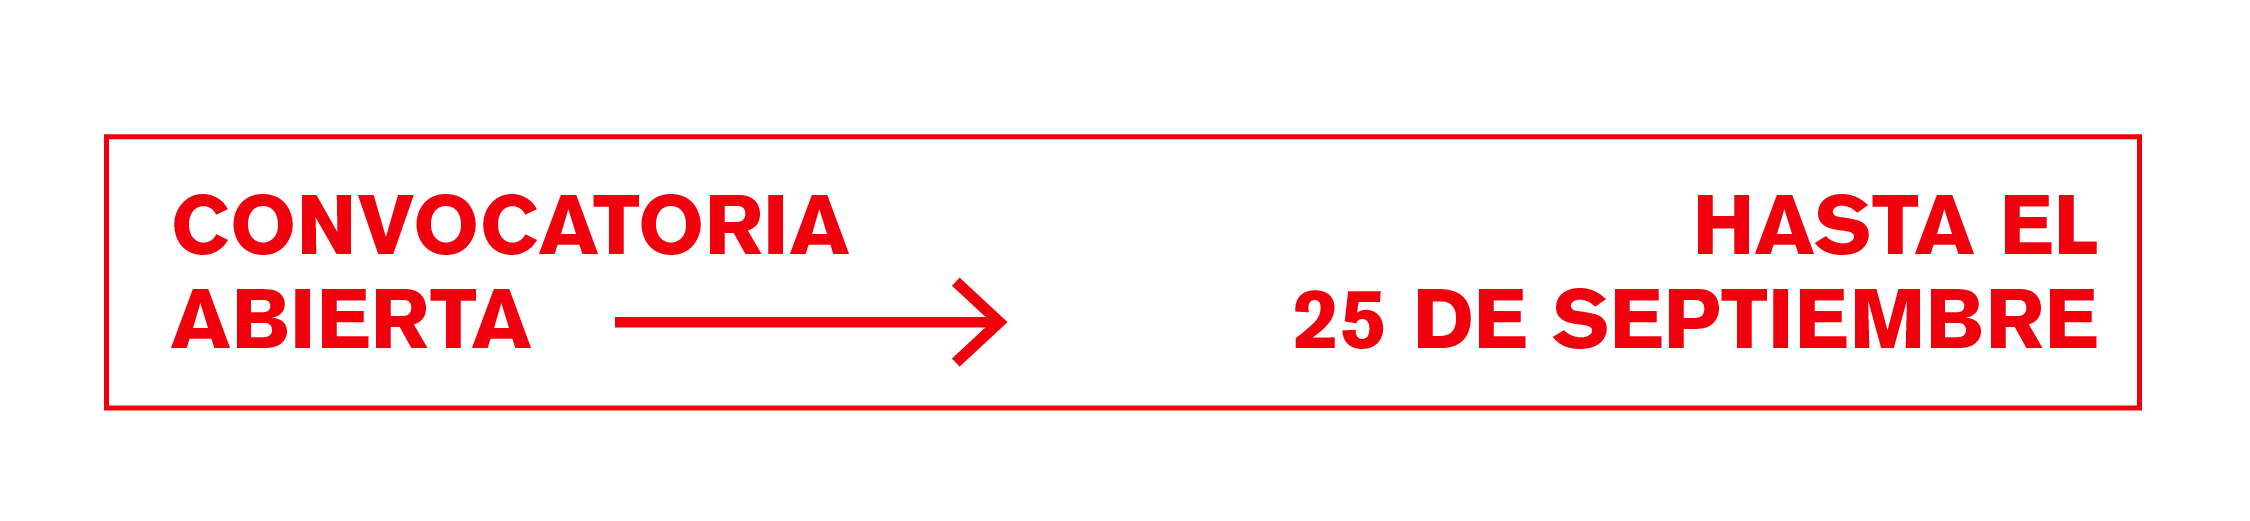
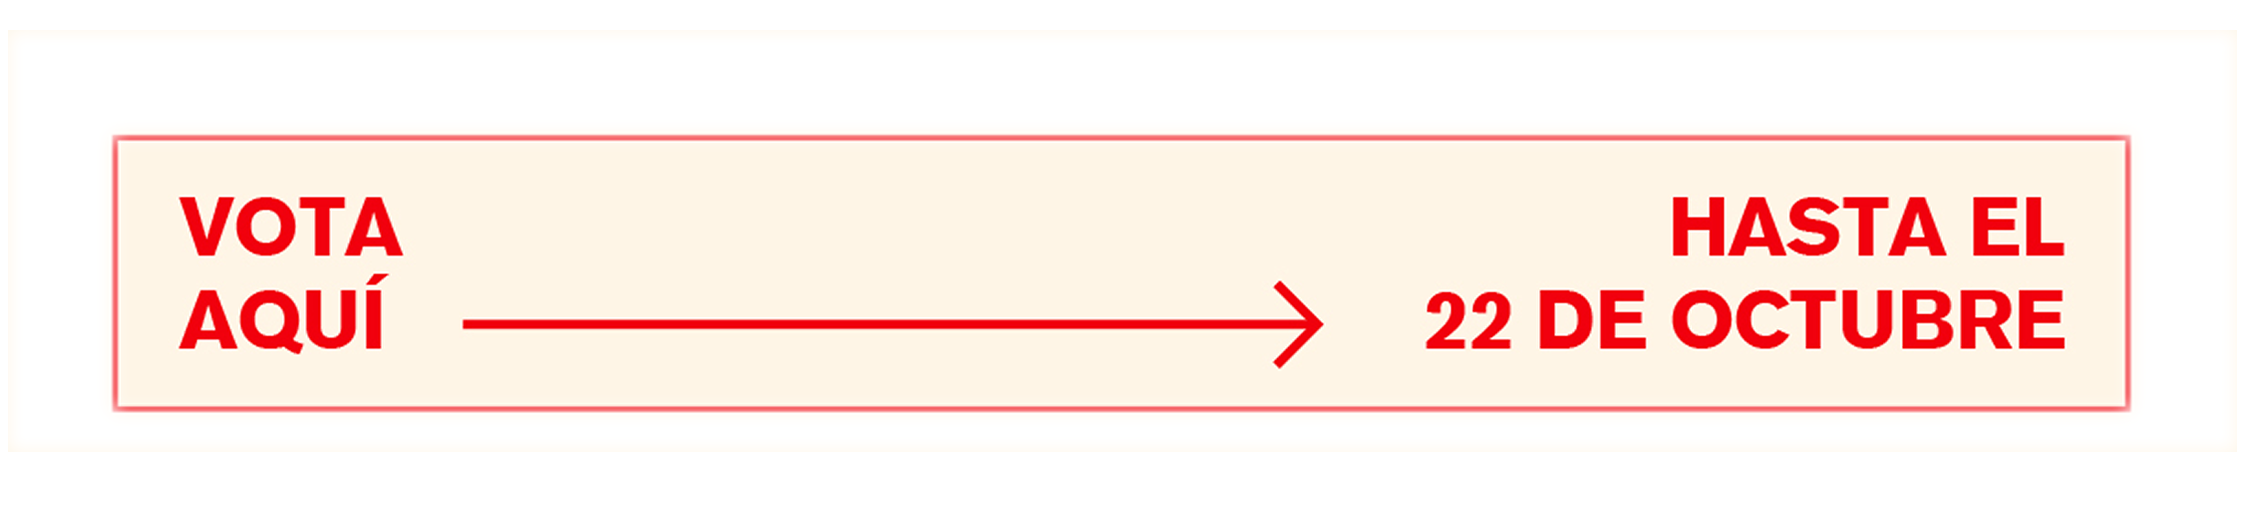
click votar

diff --git a/src/components/PamHeader.js b/src/components/PamHeader.js
@@ -3,16 +3,17 @@ import React  from 'react';
 
 function PamHeader({titulo,contenido}) {
 
+  ///votacion
+
   return (
     <header>
       <div className="flex justify-center ">
         <div className="w-full mx-auto  container">
-          <img id="HeaderIMG"  src="img/HEADER_DESK.png"  alt=""/>
-          <img id="HeaderIMG-mobile"  src="img/HEADER_MOVIL.png"  alt=""/>
-          
-          <img id="LOGOS_MOVIL"  src="img/CONVOCATORIA_MOVIL.png"  alt=""/>
-
-          
+        <img className="HeaderIMG"  src="img/HEADER_DESK_P1.png"  alt=""/>
+        <img className="HeaderIMG"   src="img/HEADER_DESK_P2.png"  alt="" style={{cursor:'pointer'}}
+         onClick={() => window.location.href = '/votacion'} />
+        <img id="HeaderIMG-mobile"  src="img/HEADER_MOVIL.png"  alt=""/>
+        <img id="LOGOS_MOVIL"  src="img/CONVOCATORIA_MOVIL.png"  alt=""   onClick={() => window.location.href = '/votacion'}  />          
         </div>
       </div>
       <div className="w-full mx-auto  container container_logo_movil">

diff --git a/src/components/Presentadores.js b/src/components/Presentadores.js
@@ -4,13 +4,13 @@ import React  from 'react';
 function Presentadores() {
 
   return (<>
-        <h2 class="presentan__titulo">PRESENTA:</h2>
+        <h2 className="presentan__titulo">PRESENTA:</h2>
         <img src="img/PRESENTA.png" alt='Fundación Antenna' />
-        <h2 class="presentan__titulo">AUSPICIA:</h2>
+        <h2 className="presentan__titulo">AUSPICIA:</h2>
         <img src="img/AUSPICIA.png" alt='Bank Of America' />  
-        <h2 class="presentan__titulo">COLABORA:</h2>
+        <h2 className="presentan__titulo">COLABORA:</h2>
         <img src="img/COLABORA2.png" alt='GRUPO ROCA'  />  
-        <h2 class="presentan__titulo">APOYA:</h2>
+        <h2 className="presentan__titulo">APOYA:</h2>
         <img src="img/COLABORA1.png" alt='Capitulo Chileno de Mational Musseum of WOMEN in the ARTS' />  
         <img src="img/APOYA.png" alt='e-press' style={{marginTop:'1rem'}} />                          
         </>

diff --git a/src/App.css b/src/App.css
@@ -1201,7 +1201,7 @@ input[type="submit"]:hover {
 		display: block;
 	}
 
-	#HeaderIMG, #IMGGanadoras {
+	#HeaderIMG, #IMGGanadoras, .HeaderIMG {
 		display:none;
 	}
 	#HeaderIMG-mobile {

diff --git a/public/lista_preseleccion.php b/public/lista_preseleccion.php
@@ -1,4 +1,9 @@
 <?php
+// Permitir solicitudes desde cualquier origen (modifica * si quieres restringir a un dominio específico)
+header("Access-Control-Allow-Origin: *");
+
+// Métodos permitidos
+header("Access-Control-Allow-Methods: GET, POST, OPTIONS, PUT, DELETE");
 
 $sql = "SELECT ID_POSTULACION, TITULO_DE_OBRA, NUMERO, YEAR(FECHA_CREACION), TECNICA, DIMENCIONES, EDAD, NACIONALIDAD, REGION_RESIDENCIA, FOTO_SELECCION, FOTOGRAFIA_OBRA_1, FOTOGRAFIA_OBRA_2, FOTOGRAFIA_OBRA_3, VIDEO_LINK FROM `postulaciones_pam`
  WHERE `ESTADO_POSTULACION` = 'APROBADO';";

diff --git a/public/FNConfirmaVotoMail2024.php b/public/FNConfirmaVotoMail2024.php
@@ -9,7 +9,7 @@ function enviarCorreoVotacion($destinatario,$token) {
     $encabezados .= "Content-type:text/html;charset=UTF-8" . "\r\n";
     $encabezados .= "From: no-responder@premiopam.cl" . "\r\n"; // Cambia esto al correo del remitente
 
-    $urlBase = "https://wwww.premiopam.cl/";
+    $urlBase = "https://www.premiopam.cl/";
 
   // Contenido del correo (tu HTML)
   $mensaje = '

diff --git a/public/confirma.php b/public/confirma.php
@@ -1,5 +1,12 @@
 <?php
 
+// Permitir solicitudes desde cualquier origen (modifica * si quieres restringir a un dominio específico)
+header("Access-Control-Allow-Origin: *");
+
+// Métodos permitidos
+header("Access-Control-Allow-Methods: GET, POST, OPTIONS, PUT, DELETE");
+
+
 extract($_REQUEST);
 
 

diff --git a/public/consultaSiVoto.php b/public/consultaSiVoto.php
@@ -1,4 +1,10 @@
 <?php
+// Permitir solicitudes desde cualquier origen (modifica * si quieres restringir a un dominio específico)
+header("Access-Control-Allow-Origin: *");
+
+// Métodos permitidos
+header("Access-Control-Allow-Methods: GET, POST, OPTIONS, PUT, DELETE");
+
 
 session_start();
 
